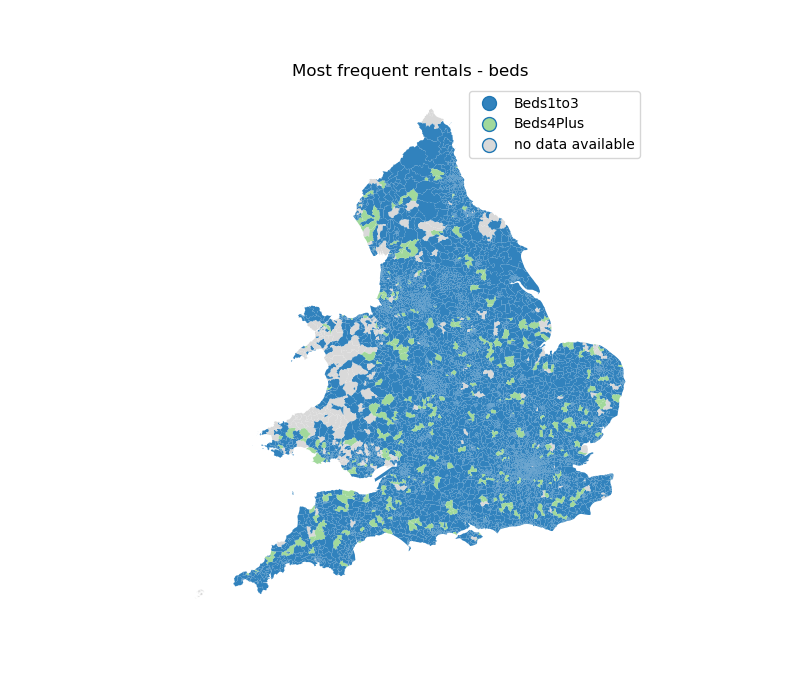
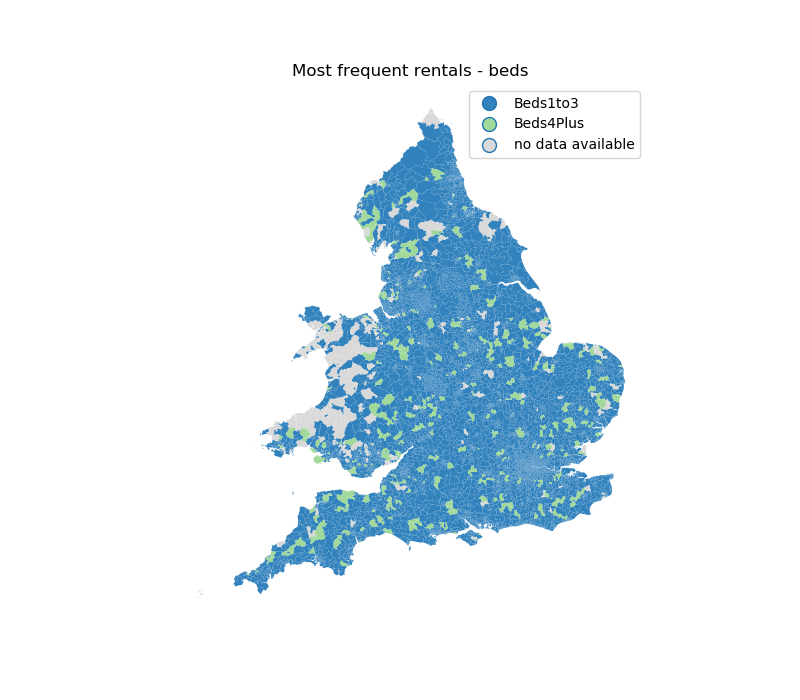
changing to 2016 shp to match data

diff --git a/scripts/od_pairs.py b/scripts/od_pairs.py
@@ -38,8 +38,8 @@ def main():
     print("\nMoves from origin: \n{}".format(df_dict['df_origin'].sum()))
     print("\nMoves to destination: \n{}".format(df_dict['df_destination'].sum()))
 
-    shp_path = "data/shapefiles/GB_Wards_2017.shp"
-    geo_code = 'wd17cd'
+    shp_path = "data/shapefiles/GB_Wards_2016.shp"
+    geo_code = 'wd16cd'
 
     # raw - net
     #uk_plot(shp_path, df_dict['df_net'], var_name, 'net df - '+var_name)
